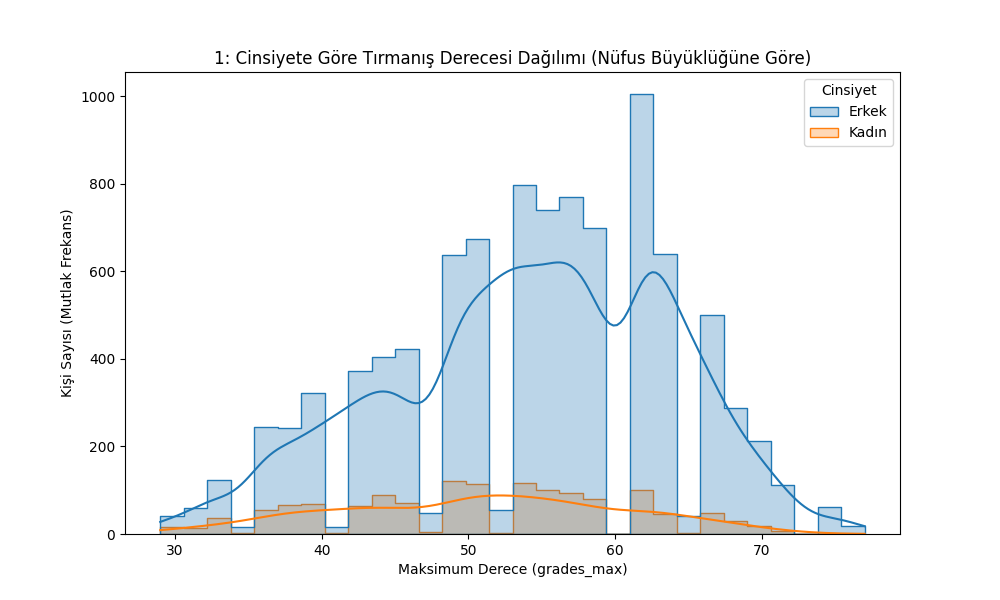
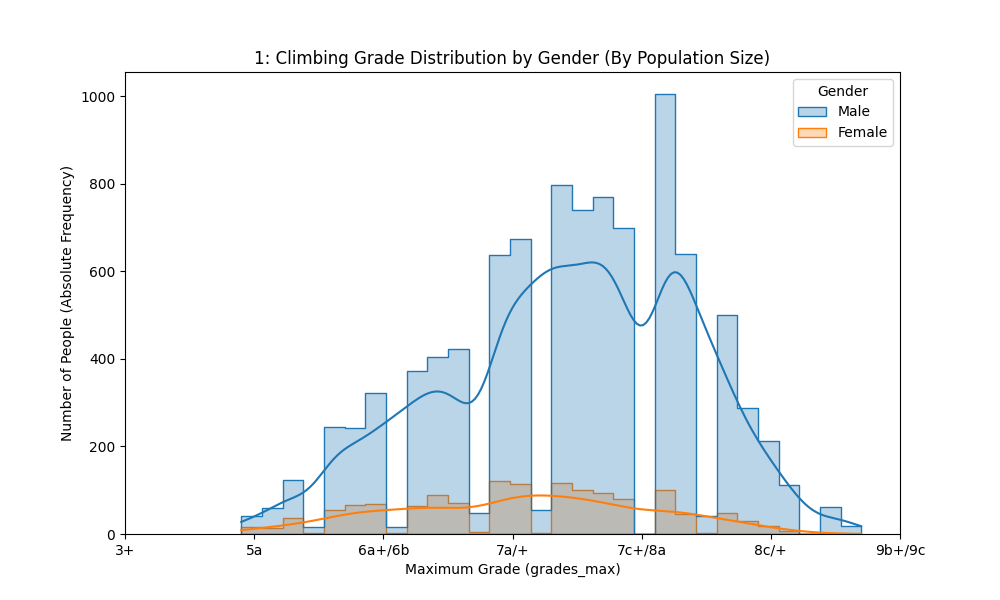
sa

diff --git a/analyze.py b/analyze.py
@@ -12,6 +12,22 @@ from sklearn.metrics import classification_report, confusion_matrix, accuracy_sc
 # 1. Load the dataset
 df = pd.read_csv('climber_df.csv')
 
+# Load grade conversion mapping
+grades_df = pd.read_csv('grades_conversion_table.csv')
+grade_map = dict(zip(grades_df['grade_id'], grades_df['grade_fra']))
+
+def format_grade_ticks(ax, axis='x'):
+    """Replaces numeric grade ticks with French grades like '7a', '6b+'"""
+    ticks = ax.get_yticks() if axis == 'y' else ax.get_xticks()
+    valid_ticks = [t for t in ticks if int(t) in grade_map and t >= 0]
+    labels = [grade_map[int(t)] for t in valid_ticks]
+    if axis == 'y':
+        ax.set_yticks(valid_ticks)
+        ax.set_yticklabels(labels)
+    else:
+        ax.set_xticks(valid_ticks)
+        ax.set_xticklabels(labels)
+
 print("--- Dataset Formatting ---")
 print(f"Rows: {df.shape[0]}, Columns: {df.shape[1]}")
 
@@ -106,6 +122,7 @@ sns.regplot(data=df, x='years_cl', y='grades_max',
 plt.title('Relationship Between Climbing Experience (Years) and Maximum Grade')
 plt.xlabel('Climbing Years (years_cl)')
 plt.ylabel('Maximum Grade (grades_max)')
+format_grade_ticks(plt.gca(), axis='y')
 plt.show()
 
 # Step 4: Grade Distribution by Gender
@@ -121,6 +138,7 @@ sns.histplot(data=df_plot, x='grades_max', hue='Gender', kde=True, bins=30,
 plt.title('1: Climbing Grade Distribution by Gender (By Population Size)')
 plt.xlabel('Maximum Grade (grades_max)')
 plt.ylabel('Number of People (Absolute Frequency)')
+format_grade_ticks(plt.gca(), axis='x')
 plt.show()
 
 # --- PLOT 4.2: Normalized Distribution (Within Itself) ---
@@ -132,6 +150,7 @@ sns.histplot(data=df_plot, x='grades_max', hue='Gender', kde=True, bins=30,
 plt.title('2: Proportional Climbing Grade Distribution by Gender (Normalized to Own Group)')
 plt.xlabel('Maximum Grade (grades_max)')
 plt.ylabel('Percentage (%) - Proportion within Own Gender')
+format_grade_ticks(plt.gca(), axis='x')
 plt.show()
 
 # --- CLASSIFICATION MODELS ---
